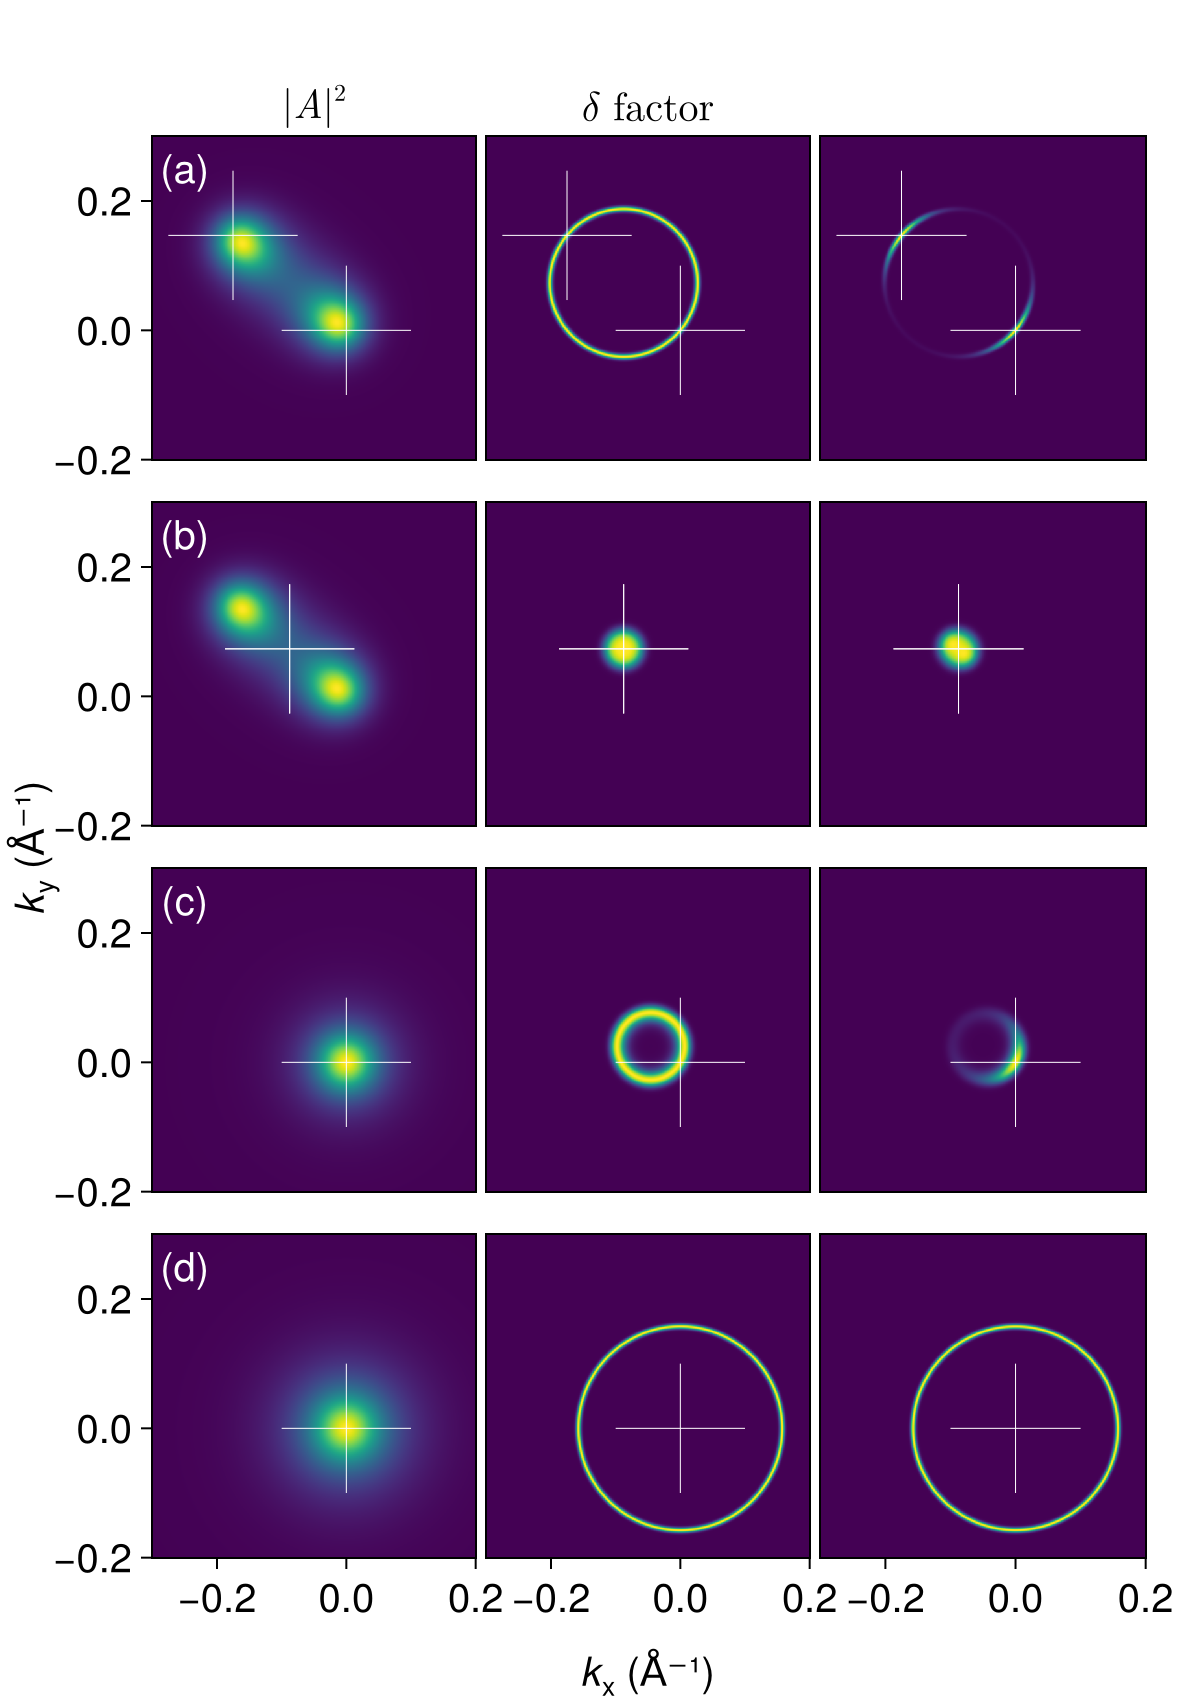
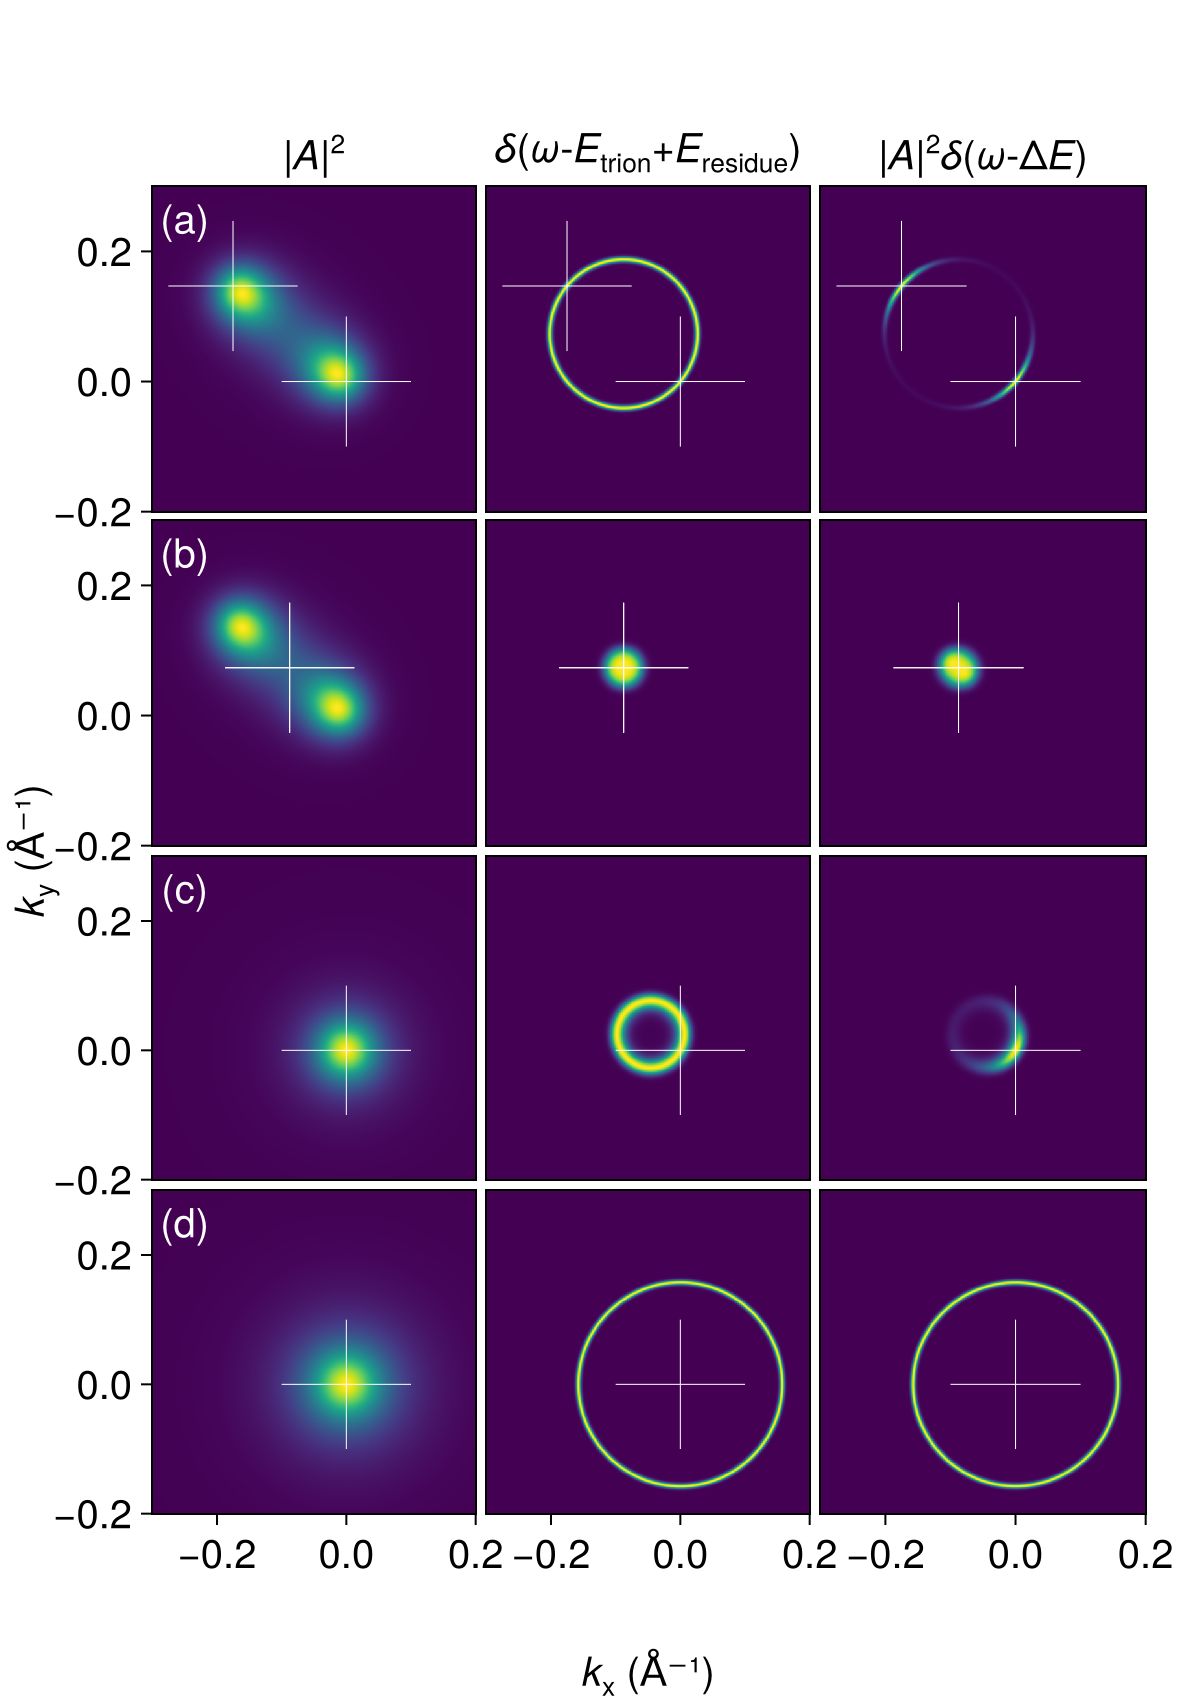
update data

diff --git a/simplified/ehh-momentum-conservation-factor.md b/simplified/ehh-momentum-conservation-factor.md
@@ -6,3 +6,8 @@ The output is
 We can also do it in a more compact way using [`ehh-momentum-conservation-factor-compact.jl`](ehh-momentum-conservation-factor-compact.jl):
 
 ![](ehh-momentum-conservation-factor-compact.png)
+
+We can also include negative trion signaturs into the figure.
+This is created using [`ehh-momentum-conservation-factor-compact-2.jl`](ehh-momentum-conservation-factor-compact-2.jl):
+
+![](ehh-momentum-conservation-factor-compact-2.png)
